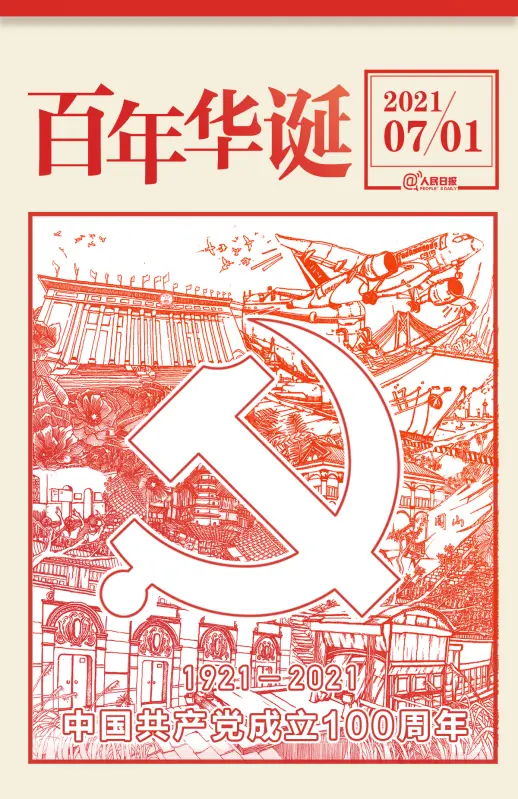
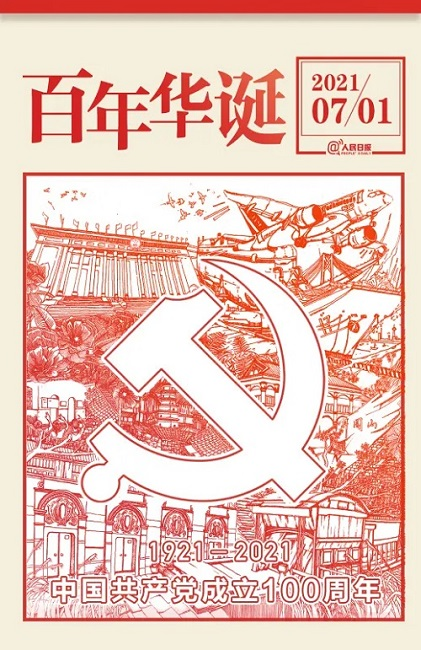
add 202107W2 (#37)
* fix: fail to generate pdf (bad image file)

* review (1)

* tip (1)

* tip (2)

* share (1) & head image

diff --git a/weekly/202107W2.md b/weekly/202107W2.md
@@ -1,0 +1,174 @@
+> @Author  : Lewis Tian (taseikyo@gmail.com)
+>
+> @Link    : github.com/taseikyo
+>
+> @Range   : 2021-07-04 - 2021-07-10
+
+# Weekly #36
+
+[readme](../README.md) | [previous](202107W1.md) | [next](202107W3.md)
+
+![](../images/2021/07/9f80d43a64e4421d81c24d22395194c9.png)
+
+\**Photo by Unknown on [Sohu](https://www.sohu.com/a/307347824_120113245)*
+
+> 天下熙熙皆为利来，天下攘攘皆为利往 —— 《史记》
+
+## Table of Contents
+
+- [algorithm](#algorithm-)
+- [review](#review-)
+    - CSS 与 CSS-in-JS 的性能比较（英文）
+- [tip](#tip-)
+    - 【git】全局配置和单个仓库的用户名邮箱配置
+    - 在 MAC 终端下打开 Finder
+- [share](#share-)
+    - You pay, while I enjoy!
+
+## algorithm [🔝](#weekly-36)
+
+## review [🔝](#weekly-36)
+
+### 1. [CSS 与 CSS-in-JS 的性能比较（英文）](https://pustelto.com/blog/css-vs-css-in-js-perf)
+
+单独写 css，和在 js 中写 css 这其实看个人习惯，有人习惯单独写（比如我），有人喜欢在 js 里面控制，我原来以为这其实都差不太多，实际上它俩性差差异还蛮大的。
+
+TLDR: Don’t use runtime CSS-in-JS if you care about the load performance of your site. ***Simply less JS = Faster Site.***
+
+测试：
+
+- Network (size of the JS and CSS assets, coverage, number of requests)
+- Lighthouse audits (performance audit with mobile preset)
+- Performance profiling (tests for page load, one for drag and drop interaction)
+
+1、网络比较
+
+Home page network stats comparison
+
+|                          | Styled Component |       Linaria |
+|-------------------------:|-----------------:|--------------:|
+| Total number of requests |               11 |            13 |
+| Total size               |      361kB/1.8MB |   356kB/1.8MB |
+| CSS size                 |      2.3kB/7.2kB | 14.7kB/71.5kB |
+| No. of CSS requests      |                1 |             3 |
+| JS size                  |      322kB/1.8MB |   305kB/1.7MB |
+| No. of JS requests       |                6 |             6 |
+
+Search page network stats comparison
+
+|                          | Styled Component |       Linaria |
+|-------------------------:|-----------------:|--------------:|
+| Total number of requests |               10 |            12 |
+| Total size               |      395kB/1.9MB |   391kB/1.9MB |
+| CSS size                 |      2.3kB/7.2kB | 16.0kB/70.0kB |
+| No. of CSS requests      |                1 |             3 |
+| JS size                  |      363kB/1.9MB |   345kB/1.8MB |
+| No. of JS requests       |                6 |             6 |
+
+the sum of CSS and JS for [Linaria](https://linaria.dev) is still smaller than the size of the JS itself in Styled Component
+
+2、覆盖范围
+
+Coverage comparison – Home page
+
+|                    | Styled Component | Linaria |
+|-------------------:|-----------------:|--------:|
+| Size of unused CSS |            6.5kB |  55.6kB |
+| Size of unused JS  |            932kB |   915kB |
+| Total size         |           938.5k | 970.6kB |
+
+Coverage comparison – Search page
+
+|                    | Styled Component | Linaria |
+|-------------------:|-----------------:|--------:|
+| Size of unused CSS |            6.3kB |  52.9kB |
+| Size of unused JS  |            937kB |   912kB |
+| Total size         |           938.5k | 970.6kB |
+
+3、Lighthouse
+
+![](../images/2021/07/b11aefe7-608.webp)
+
+![](../images/2021/07/9f885a26-608.webp)
+
+Linaria 在大多数网络要素中表现得更好（在 CLS 中丢失一次）。有时甚至是很大的差距。例如，LCP 在主页上快 870 毫秒，在搜索页面上快 1.2 秒。使用普通 CSS 渲染页面不仅要快得多，而且还需要更少的资源。阻塞时间和执行所有 JS 所需的时间分别减少了 300 毫秒和大约 1.3 秒。
+
+4、性能分析
+
+![](../images/2021/07/800b6eb6-608.webp)
+
+![](../images/2021/07/de989777-608.webp)
+
+使用样式化组件构建的屏幕有更多长时间运行的任务。与 Linaria 变体相比，这些任务也需要更长的时间才能完成。
+
+下面是用样式化组件（上部）和 Linaria（下部）加载主页的性能图表的可视化比较。
+
+![](../images/2021/07/3e337dc5-608.webp)
+
+5、用户交互的比较
+
+|                     | Styled Component | Linaria |   Diff |
+|--------------------:|-----------------:|--------:|-------:|
+| Scripting           |             2955 |    2392 | -563ms |
+| Rendering           |             3002 |    2525 | -477ms |
+| Painting            |              329 |     313 |  -16ms |
+| Total Blocking Time |          1862.66 |  994.07 | -868ms |
+
+![](../images/2021/07/ba255c84-608.webp)
+
+6、总结
+
+运行时 CSS-in-JS 对网页有明显的影响。主要用于互联网连接较慢或数据较昂贵的低端设备和地区。
+
+作者：下次我开始一个新项目时，我将不再使用运行时 css in-js。我要么使用老式的 CSS，要么使用一些构建时的 CSS in-JS 替代方案，从 JS 包中获取我的样式。
+
+## tip [🔝](#weekly-36)
+
+### 1. [【git】全局配置和单个仓库的用户名邮箱配置](https://blog.csdn.net/QPC908694753/article/details/79237748)
+
+一般使用都会配置一个全局的用户名和邮箱
+
+```Bash
+git config --global user.name "taseikyo"
+git config --global user.email "taseikyo@gmail.com"
+git config --list
+```
+
+如果你公司的项目是放在自建的 gitlab 上面，如果你不进行配置用户名和邮箱的话，则会使用全局的，这个时候是错误的，正确的做法是针对公司的项目，在项目根目录下进行单独配置：
+
+```Bash
+git config user.name "Lewis Tian"
+git config user.email "lewistian@gmail.com"
+git config --list
+```
+`git config --list` 查看当前配置，在当前项目下面查看的配置是全局配置 + 当前项目的配置，使用的时候会优先使用当前项目的配置
+
+### 2. [在 MAC 终端下打开 Finder](https://blog.csdn.net/tiantiandjava/article/details/109804508)
+
+初次使用 Mac，各种不习惯，首先就是没有一个资源管理器（文件管理），也没有一个在当前文件夹打开终端（估计要配置）
+
+还有就是无法在当前路径打开 finder，在 Windows 下直接 `explorer .` 就能打开资源管理器
+
+我甚至直接 `alias e='explorer .'`，所以只需要简单的敲 e 即可
+
+然后也想实现这个方式，搜了一下，Mac 下也能实现：`open .`
+
+## share [🔝](#weekly-36)
+
+### 1. You pay, while I enjoy!
+
+余杭区，五常街道。
+
+由于其中有着阿里巴巴、字节跳动和同花顺等等科技公司，使得其周边的住房在这段时间十分紧俏，即使一些破旧小区扔价高难求。
+
+之前下午看完一个 loft，有点犹豫，晚上想通了再联系的时候就已经没了，僧多粥少就是这样。
+
+更有甚者，不少房东把一间房子拆分、装修成 4 居室、5 居室，只为多租给几个人获得更高的回报。
+
+而开发商也是满足户主，做些所谓的 4 钥匙房，也是为了获取高回报。
+
+而外地来此谋生的各位初期只能忍受这种奇怪的现象，也许后面房源多了、工资涨了会考虑换一个环境/条件好一点的地方，但是受限于一年的租房合同还得花时间找下家，为房东续命，房东则是躺着收钱。
+
+*You work, you pay, and I'm laying and enjoying it!*
+
+[readme](../README.md) | [previous](202107W1.md) | [next](202107W3.md)
